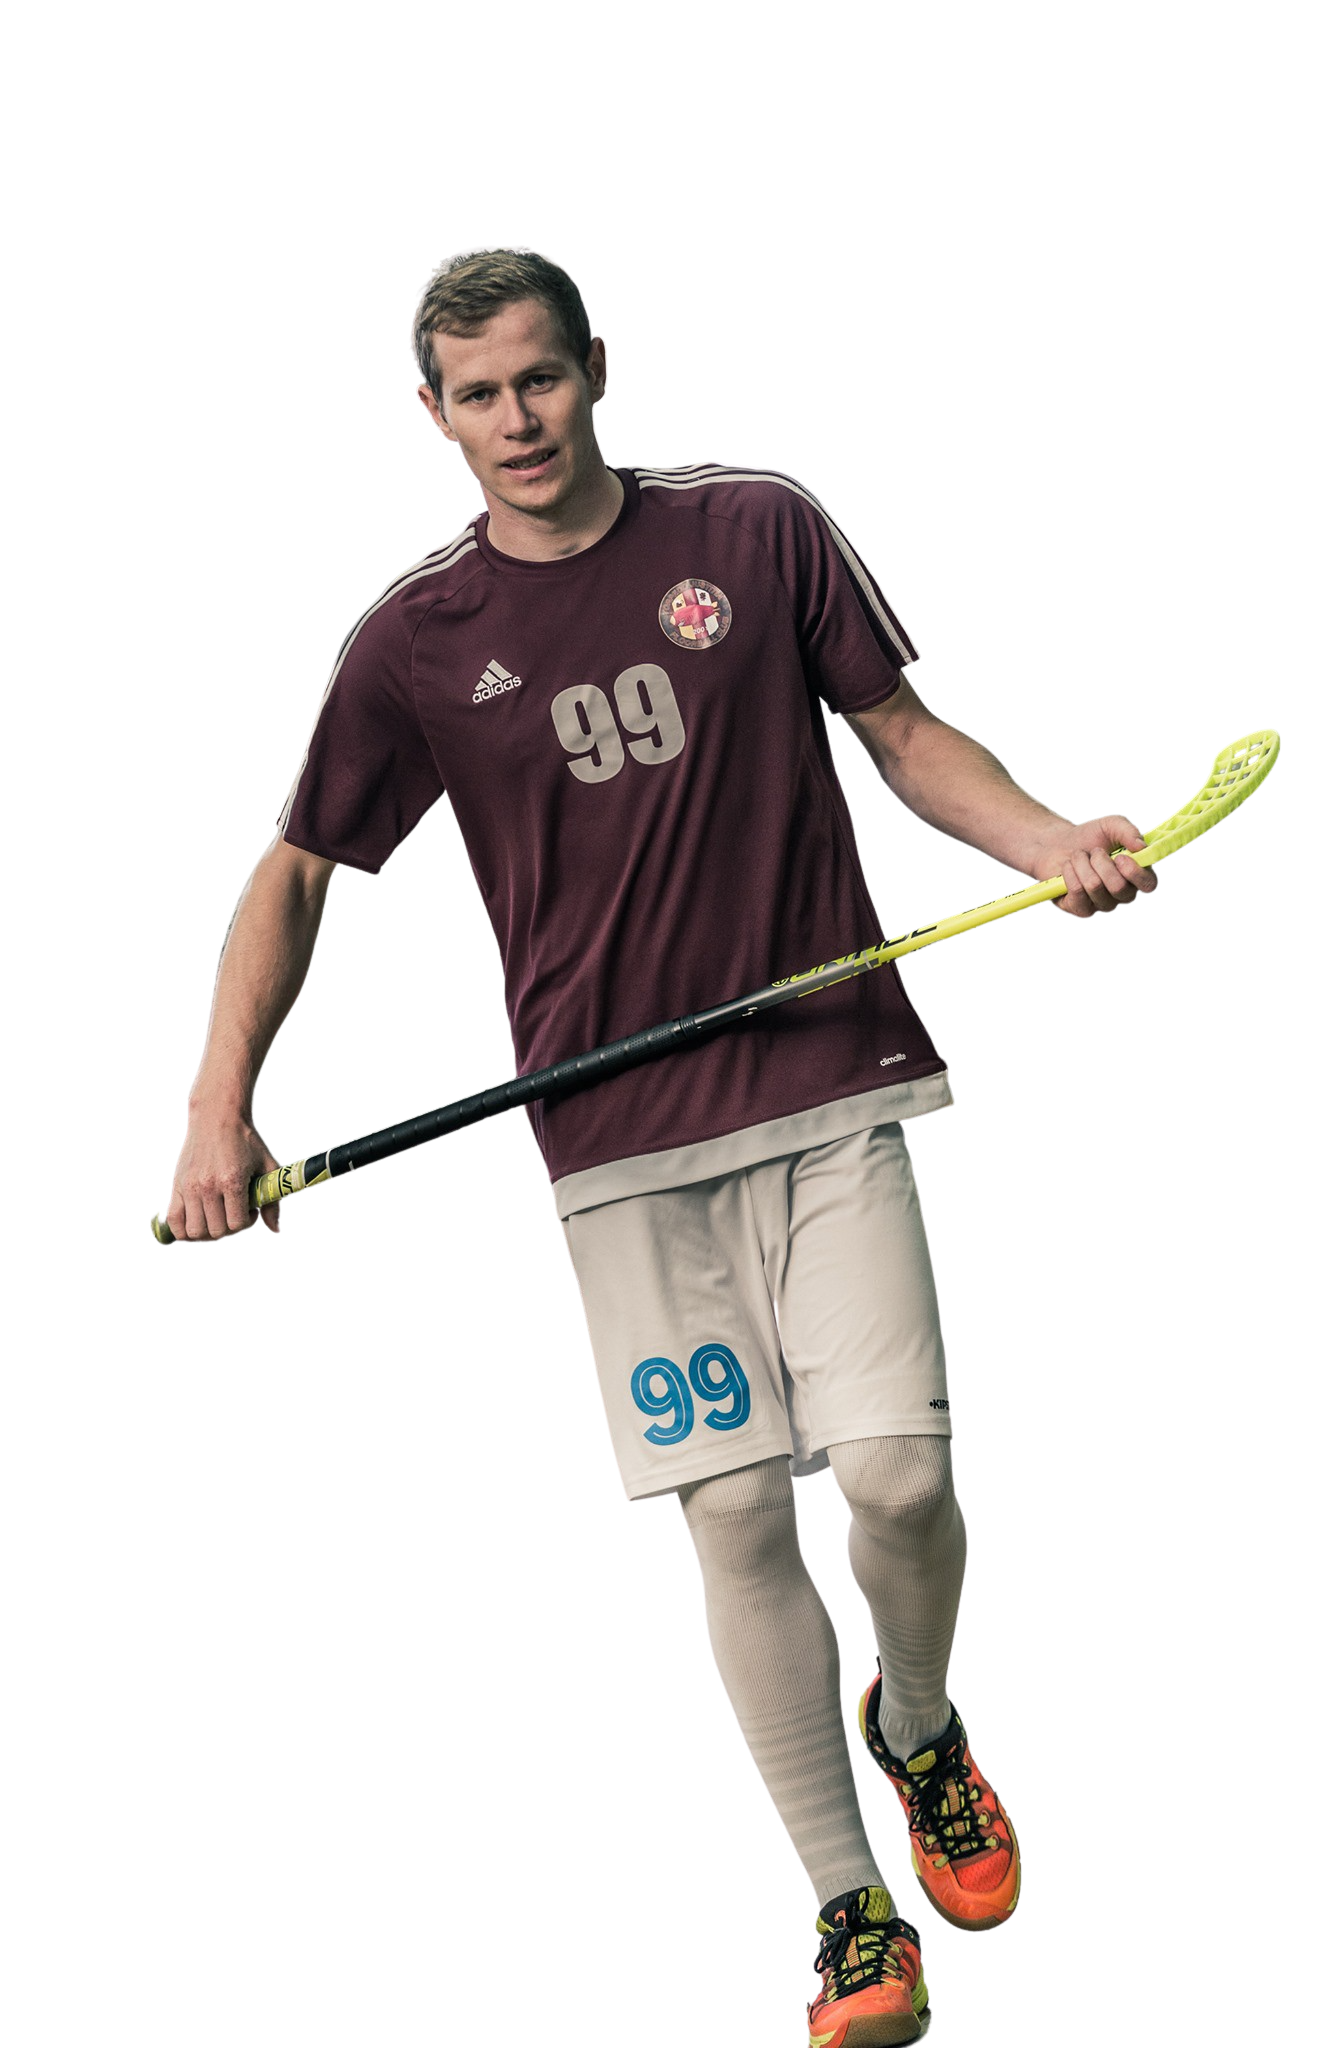
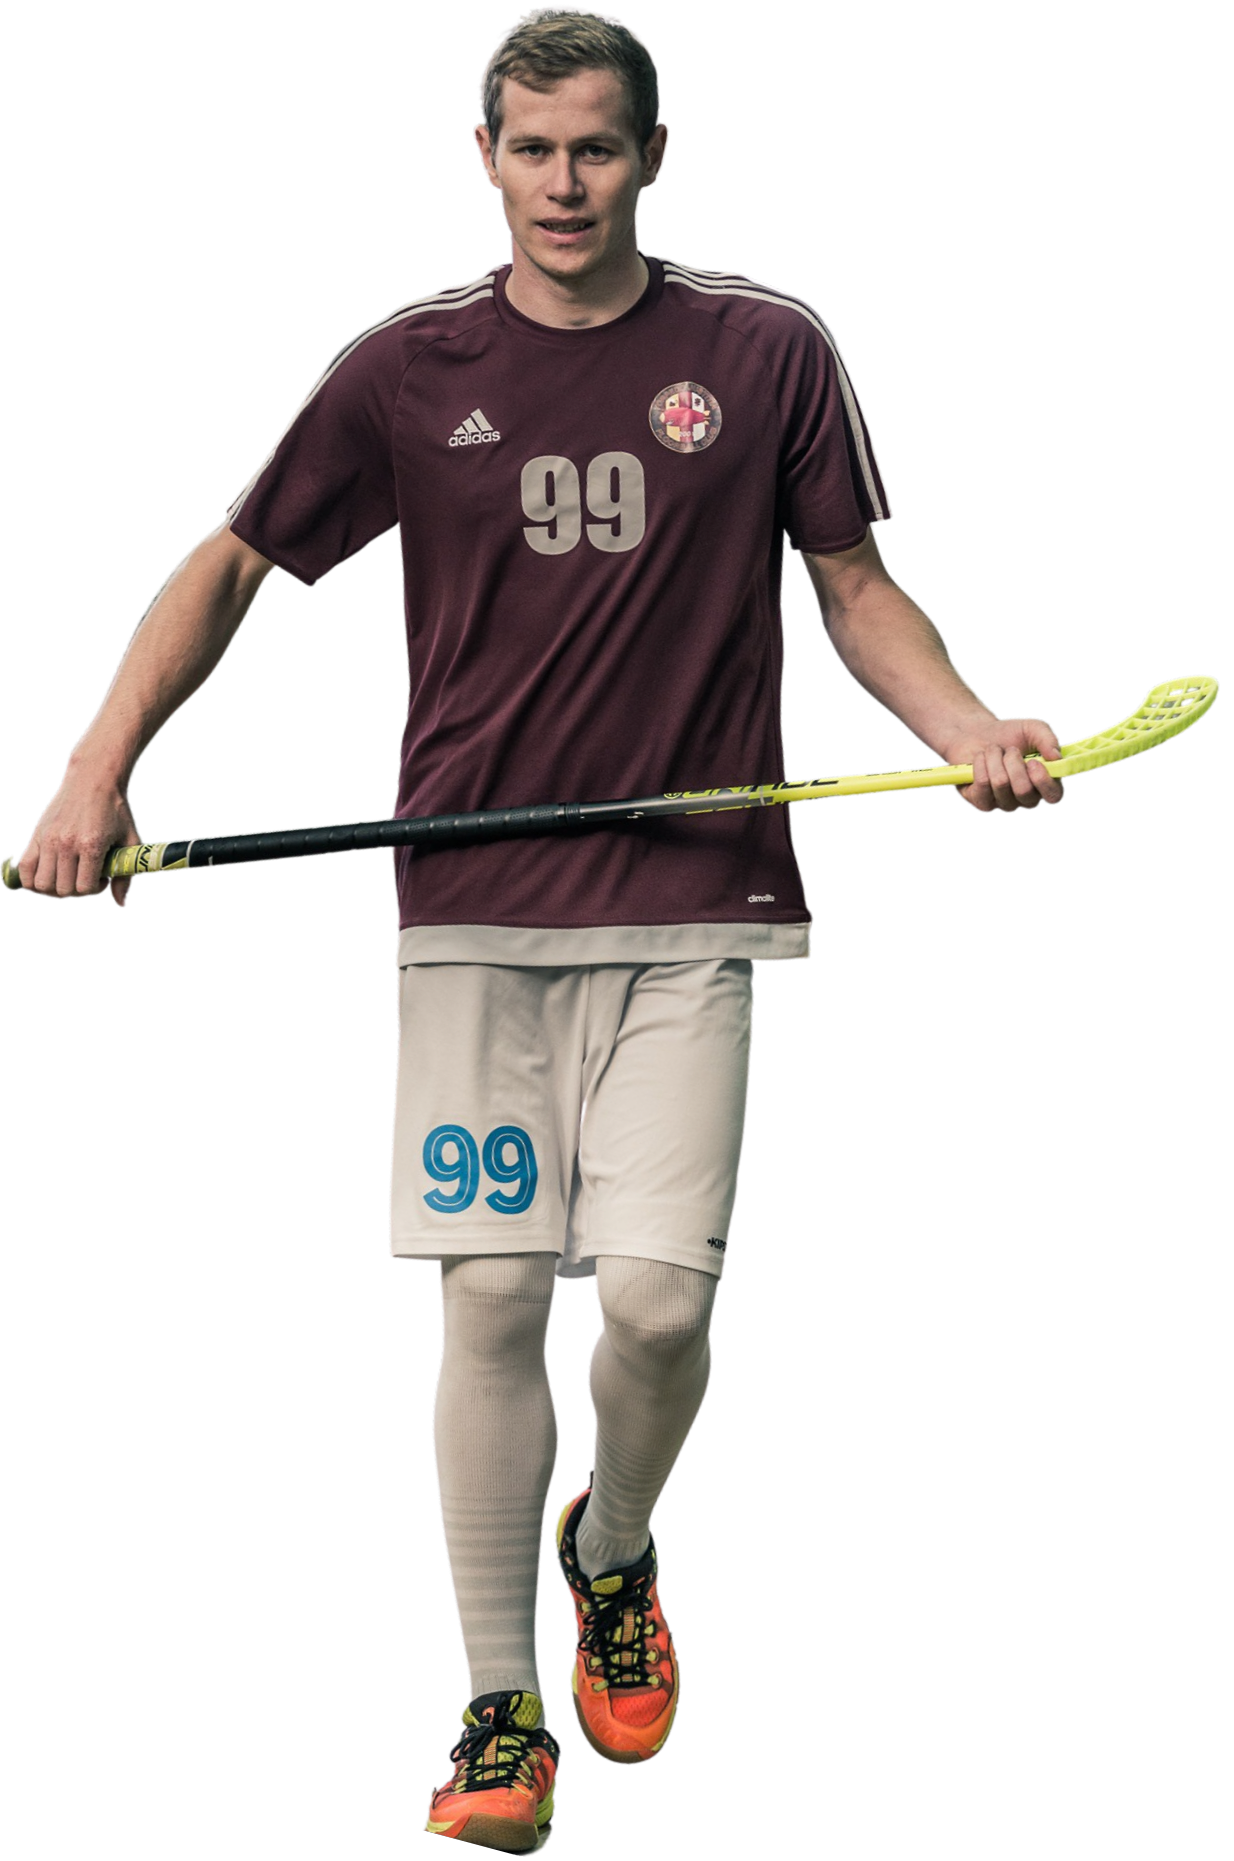
floorball oldal kesz :)

diff --git a/src/pages/floorball.js b/src/pages/floorball.js
@@ -13,16 +13,57 @@ const SecondPage = () => (
     </div>
     <section className={styles.floorballSection}>
       <div className={styles.floorballWrapper}>
-        <div className="container">
-          <div className={styles.floorballContent}>
+        <div className={styles.floorballContent}>
+          <p>
+            A floorball a labdajátékok csoportjába tartozó csapatjáték. Az
+            egymás ellen játszó két csapat igyekszik ellenfele kapujába minél
+            több gólt ütni.
+          </p>
+          <StaticImage
+            src="../images/floorball-player.png"
+            alt="floorball játékos"
+            objectFit="cover"
+            placeholder="tracedSVG"
+            loading="eager"
+            style={{ overflow: "visible" }}
+            className={styles.img}
+          />
+        </div>
+      </div>
+    </section>
+    <section className={styles.aboutFloorball}>
+      <div className="container">
+        <div className={styles.floorballFlexContainer}>
+          <div>
             <p>
-              A floorball a labdajátékok csoportjába tartozó csapatjáték. Az
-              egymás ellen játszó két csapat igyekszik ellenfele kapujába minél
-              több gólt ütni.
+              A játék közben a gyorsaság és állóképesség mellett a labda
+              megszerzése, továbbadása, ütése, a cselezés elképzelhetetlen
+              kitűnő reflexek nélkül. A játékot teremben, 50 cm magas palánkkal
+              elkerített játéktéren játsszák. A szabályai a veszély nélküli,
+              sportszerű játékot segítik.
             </p>
+            <p>
+              A labda kezelése, továbbítása, valamint a lövések a futómozgással
+              összhangban fejlesztik a törzs és a karok izomzatát, s fejlesztik
+              a gyorsaságot, a gyorsasági állóképességet, s magát az
+              állóképességet is.
+            </p>
+            <p>
+              Természetesen az előbb említett kondicionális képességek mellet
+              olyan koordinációs képességeket, mint az ügyesség, a téri
+              tájékozódó képesség, egyensúlyérzék, ritmuskészség is remekül
+              fejleszti. A játékban nagy szerep jut a térlátásnak,
+              összpontosítóképességnek, és a gyors reflexnek.
+            </p>
+          </div>
+          <div className={styles.imgContainer}>
             <StaticImage
-              src="../images/floorball-player.png"
-              className={styles.img}
+              src="../images/floorballball.png"
+              alt="floorball labda"
+              placeholder="tracedSVG"
+              layout="fixed"
+              width={327}
+              height={327}
             />
           </div>
         </div>

diff --git a/src/styles/floorball.module.scss b/src/styles/floorball.module.scss
@@ -2,23 +2,111 @@
 
 .floorball-section {
   margin-top: 20px;
+  width: 100%;
+  background-image: url("../images/bcg_rectangle.svg");
+  background-repeat: no-repeat;
+  background-size: cover;
 }
 
 .floorball-wrapper {
   min-height: 187px;
-  background-color: $primary-color;
-  clip-path: polygon(0% 0%, 100% 30%, 100% 80%, 0% 100%);
+  max-width: $site-width;
+  margin: 0 auto;
+  padding: 0 20px;
 
   p {
+    min-width: 210px;
+    font-weight: 500;
+    max-width: 50%;
     padding-top: 37px;
     color: $light-font-color;
   }
 
   .floorball-content {
     display: flex;
+    flex-direction: column;
 
     .img {
+      margin: 10px auto -40px auto;
+      background-color: transparent;
+      width: 200px;
       z-index: 2;
+    }
+  }
+}
+
+.about-floorball {
+  margin: 46px auto 0 auto;
+  max-width: 996px;
+
+  p {
+    max-width: 700px;
+    padding-bottom: 20px;
+    font-weight: 500;
+  }
+}
+
+section .floorball-flex-container {
+  overflow: visible;
+  display: flex;
+  flex-direction: row;
+
+  .img-container {
+    overflow: hidden;
+    margin-right: -20px;
+  }
+}
+
+// media for ball in content:
+@media screen and (min-width: 768px) {
+  .about-floorball p {
+    max-width: 996px;
+  }
+
+  .img-container {
+    display: none;
+  }
+}
+
+//media for hero img and text
+@media screen and (min-width: 350px) {
+  .floorball-wrapper {
+    .floorball-content {
+      flex-direction: row;
+      align-items: center;
+      justify-content: space-between;
+
+      .img {
+        width: 40%;
+        max-height: 800px;
+        margin: 0 0 -30px 0;
+      }
+    }
+  }
+}
+
+@media screen and (min-width: 550px) {
+  .floorball-wrapper p {
+    font-size: 26px;
+  }
+}
+
+@media screen and (min-width: 980px) {
+  .floorball-wrapper p {
+    font-size: 38px;
+  }
+
+  .floorball-wrapper {
+    .floorball-content .img {
+      max-height: 100%;
+    }
+  }
+}
+
+@media screen and (min-width: 1440px) {
+  .floorball-wrapper {
+    .floorball-content .img {
+      margin-right: -10%;
     }
   }
 }

diff --git a/src/components/footer.module.scss b/src/components/footer.module.scss
@@ -64,32 +64,35 @@ footer {
   }
 }
 
-footer .ball-container {
+footer .img-container {
   display: none;
 }
 
 @media screen and (min-width: 768px) {
-  footer .footer-info {
-    justify-content: flex-start;
-    flex-direction: column;
-    align-items: flex-start;
-  }
-
-  .footer-wrapper {
-    max-height: 263px;
-    display: flex;
-    flex-direction: row;
-    justify-content: space-between;
-
-    .ball-container {
-      display: block;
-      position: relative;
-      right: -100px;
-      bottom: -200px;
+  footer {
+    .footer-info {
+      justify-content: flex-start;
+      flex-direction: column;
+      align-items: flex-start;
     }
-  }
-  .ball-img {
-    width: 327px;
-    height: 327px;
+
+    .footer-wrapper {
+      max-height: 263px;
+      display: flex;
+      flex-direction: row;
+      justify-content: space-between;
+    }
+
+    .img-container {
+      right: 0px;
+      display: block;
+      margin-top: -327px;
+      float: right;
+      position: relative;
+      bottom: -200px;
+      height: 120px;
+      width: 327px;
+      height: 327px;
+    }
   }
 }

diff --git a/src/components/Footer.js b/src/components/Footer.js
@@ -24,18 +24,17 @@ const Footer = () => {
               <FaFacebookSquare />
             </div>
           </div>
-          <div className={styles.ballContainer}>
-            <StaticImage
-              src="../images/floorballball.png"
-              alt="floorball labda"
-              className={styles.ballImg}
-            />
-          </div>
         </div>
         <div className={styles.center}>
           <span className={styles.copy}>
             © {new Date().getFullYear()} Torpedo Floorball
           </span>
+        </div>
+        <div className={styles.imgContainer}>
+          <StaticImage
+            src="../images/floorballball.png"
+            alt="floorball labda"
+          />
         </div>
       </div>
     </footer>

diff --git a/src/components/navbar.module.scss b/src/components/navbar.module.scss
@@ -45,8 +45,6 @@
       font-weight: 500;
       font-size: 26px;
       line-height: 133%;
-      color: $light-font-color;
-      text-shadow: 4px 4px 12px rgba(0, 0, 0, 0.65);
     }
   }
 }
@@ -67,6 +65,8 @@
       display: flex;
       li {
         padding: 1rem;
+        color: $light-font-color;
+        text-shadow: 4px 4px 12px rgba(0, 0, 0, 0.65);
       }
     }
   }

diff --git a/src/components/IndexLayout.js b/src/components/IndexLayout.js
@@ -17,7 +17,7 @@ const Layout = ({ children }) => {
   return (
     <>
       <div className="flex-container">
-        <Navbar toggle={toggle} />
+        <Navbar toggle={toggle} className="index-nav" />
         <Sidebar isOpen={isOpen} toggle={toggle} />
         <main>{children}</main>
         <Footer />

diff --git a/src/styles/layout.scss b/src/styles/layout.scss
@@ -55,6 +55,7 @@ h3 {
 }
 
 .container {
+  overflow: hidden;
   margin: 0 auto;
   padding: 0 20px;
   max-width: $site-width;
